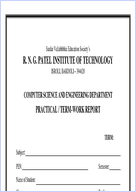
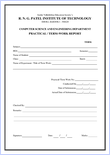
Updated Thumbnail preview

diff --git a/static/css/style.css b/static/css/style.css
@@ -1678,13 +1678,13 @@ body {
 /* ── Preview thumbnail ── */
 .tpl-thumb-wrap {
   flex-shrink: 0;
-  width: 68px; height: 96px;
-  border-radius: 8px;
+  width: 55px; height: 78px;
+  border-radius: 6px;
   overflow: hidden;
   border: 1px solid #e2e8f0;
   background: #f8fafc;
   display: flex; align-items: center; justify-content: center;
-  box-shadow: 0 2px 8px rgba(0,0,0,.06);
+  box-shadow: 0 2px 8px rgba(0,0,0,.08);
 }
 .tpl-thumb-wrap img {
   width: 100%; height: 100%;
